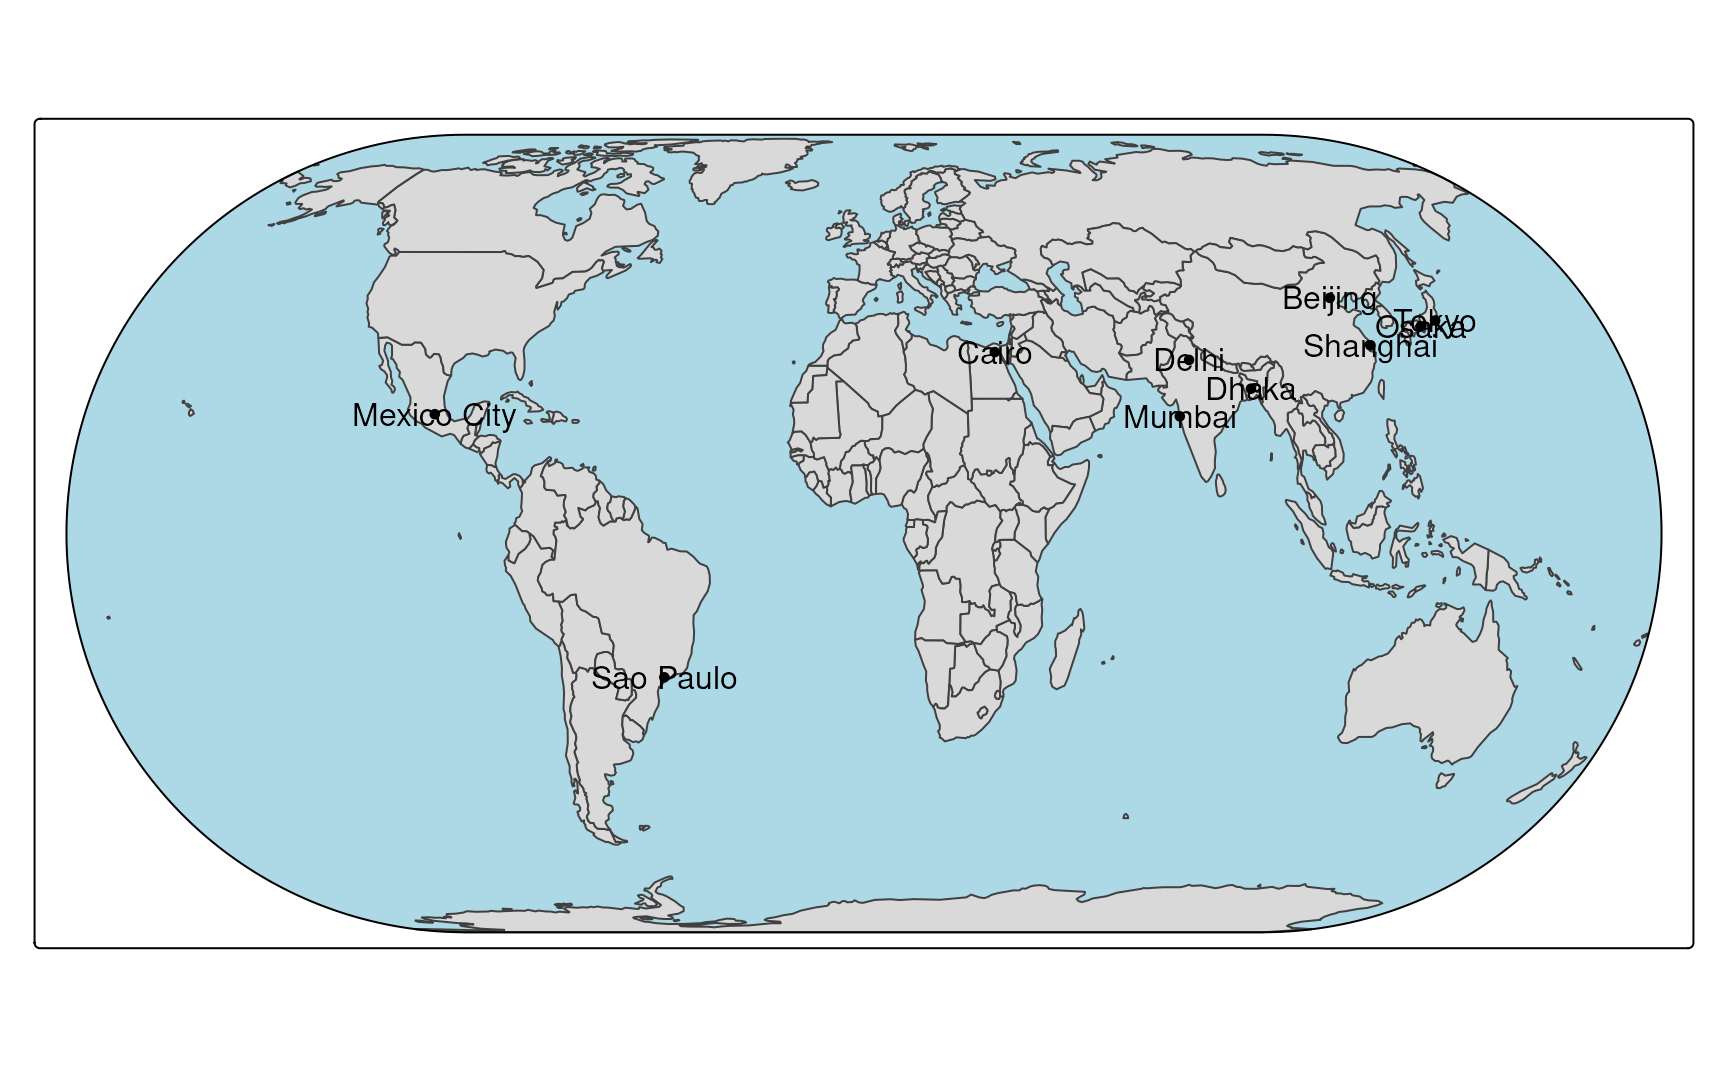
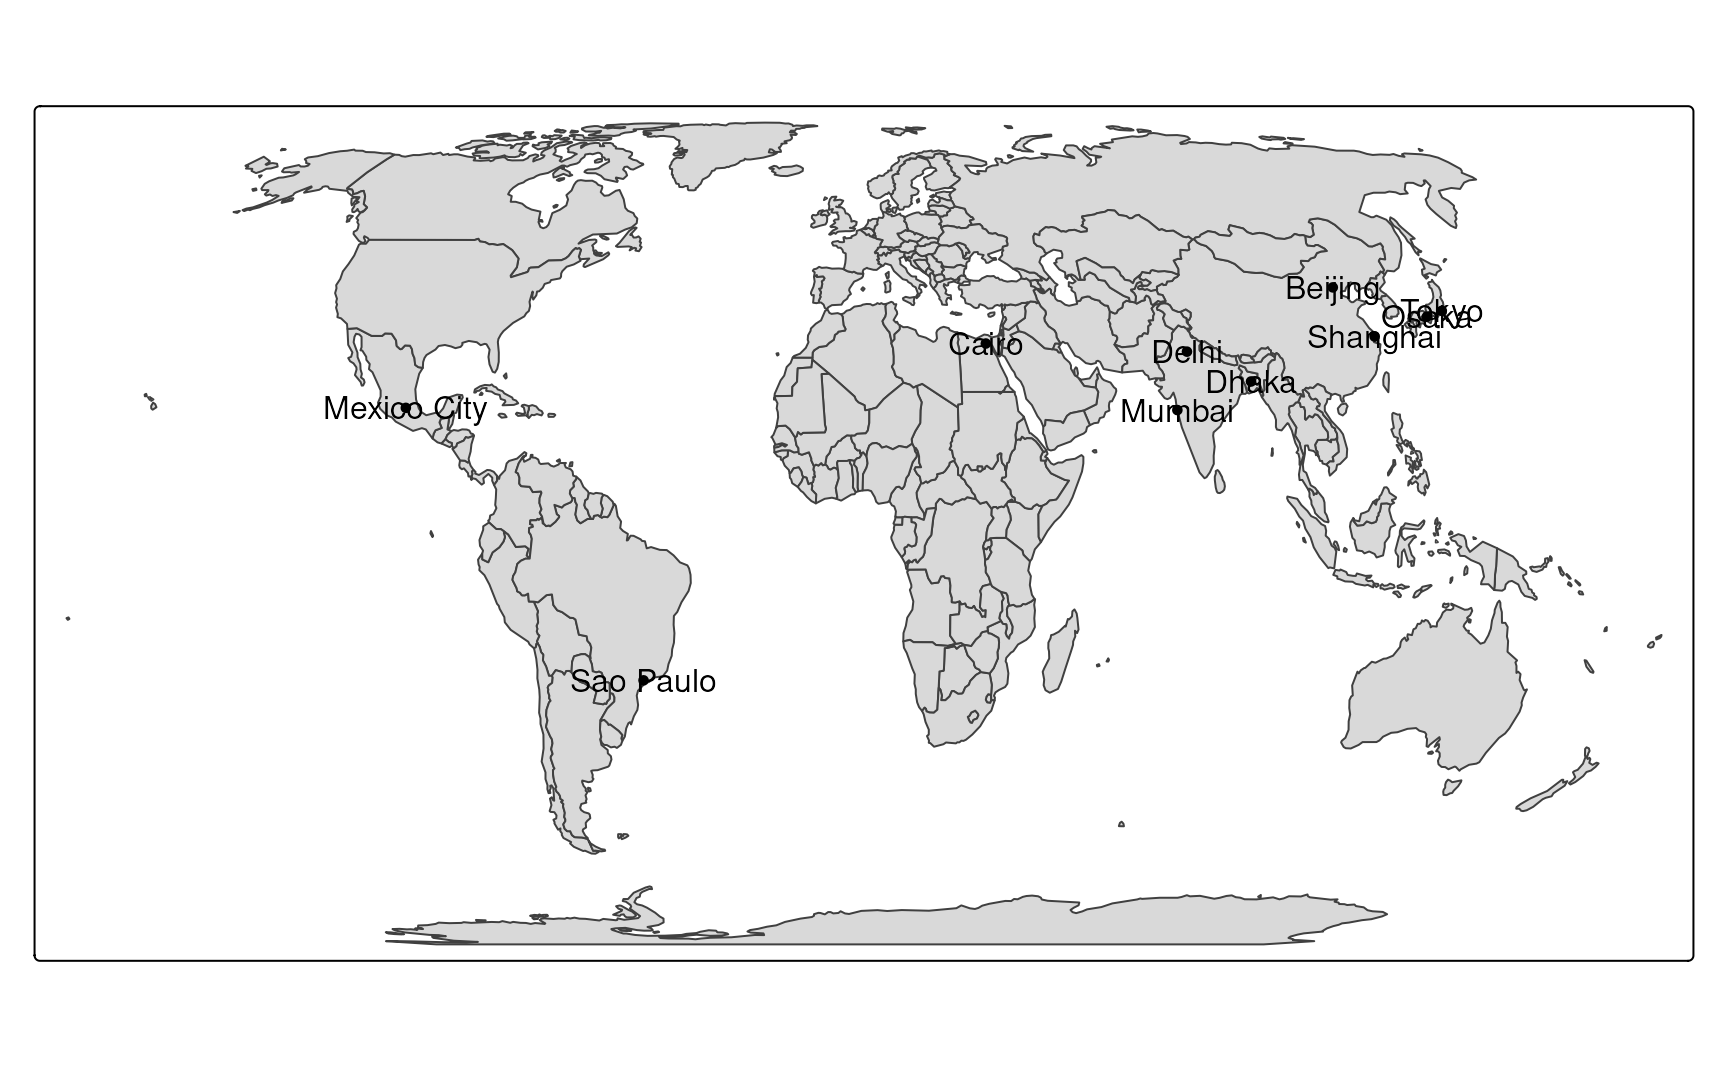
Deploy commit: improves proj section 52e13b56a039f3d058ed9c3b29fb51e4ba3cf801

diff --git a/map-projections.html b/map-projections.html
@@ -364,8 +364,20 @@ gtag('config', 'G-ER2GMPEJNF', { 'anonymize_ip': true});
 </div>
 </nav><div id="quarto-sidebar-glass" class="quarto-sidebar-collapse-item" data-bs-toggle="collapse" data-bs-target=".quarto-sidebar-collapse-item"></div>
 <!-- margin-sidebar -->
-    <div id="quarto-margin-sidebar" class="sidebar margin-sidebar zindex-bottom">
-        
+    <div id="quarto-margin-sidebar" class="sidebar margin-sidebar">
+        <nav id="TOC" role="doc-toc" class="toc-active"><h2 class="anchored">First Edition</h2>
+  <ul>
+<li><a href="https://geocompx.org/" class="nav-link active" data-scroll-target="https\://geocompx.org/">Visit the geocompx website 🌐</a></li>
+    <li><a href="https://github.com/geocompx/tmap/issues" class="nav-link" data-scroll-target="https\://github.com/geocompx/tmap/issues">Open an issue ❔</a></li>
+    <li><a href="https://discord.gg/PMztXYgNxp" class="nav-link" data-scroll-target="https\://discord.gg/PMztXYgNxp">Chat on Discord 📣</a></li>
+  </ul>
+<hr>
+<h2 id="toc-title">On this page</h2>
+   
+  <ul>
+<li><a href="#specifying-map-projections" id="toc-specifying-map-projections" class="nav-link" data-scroll-target="#specifying-map-projections"><span class="header-section-number">13.1</span> Specifying map projections</a></li>
+  <li><a href="#global-map-projections" id="toc-global-map-projections" class="nav-link" data-scroll-target="#global-map-projections"><span class="header-section-number">13.2</span> Global map projections</a></li>
+  </ul><div class="toc-actions"><ul><li><a href="https://github.com/geocompx/tmap/edit/main/map-projections.qmd" class="toc-action"><i class="bi bi-github"></i>Edit this page</a></li></ul></div></nav>
     </div>
 <!-- main -->
 <main class="content" id="quarto-document-content"><header id="title-block-header" class="quarto-title-block default"><nav class="quarto-page-breadcrumbs quarto-title-breadcrumbs d-none d-lg-block" aria-label="breadcrumb"><ol class="breadcrumb"><li class="breadcrumb-item"><a href="./map-projections.html">Expanding the toolbox</a></li><li class="breadcrumb-item"><a href="./map-projections.html"><span class="chapter-number">13</span>&nbsp; <span class="chapter-title">Map projections</span></a></li></ol></nav><div class="quarto-title">
@@ -393,6 +405,8 @@ gtag('config', 'G-ER2GMPEJNF', { 'anonymize_ip': true});
 <span><span class="va">worldvector</span> <span class="op">=</span> <span class="fu"><a href="https://r-spatial.github.io/sf/reference/st_read.html">read_sf</a></span><span class="op">(</span><span class="st">"data/worldvector.gpkg"</span><span class="op">)</span></span>
 <span><span class="va">worldcities</span> <span class="op">=</span> <span class="fu"><a href="https://r-spatial.github.io/sf/reference/st_read.html">read_sf</a></span><span class="op">(</span><span class="st">"data/worldcities.gpkg"</span><span class="op">)</span></span></code><button title="Copy to Clipboard" class="code-copy-button"><i class="bi"></i></button></pre></div>
 </div>
+<section id="specifying-map-projections" class="level2" data-number="13.1"><h2 data-number="13.1" class="anchored" data-anchor-id="specifying-map-projections">
+<span class="header-section-number">13.1</span> Specifying map projections</h2>
 <div class="cell" data-layout-align="center">
 <div class="sourceCode" id="cb2"><pre class="downlit sourceCode r code-with-copy"><code class="sourceCode R"><span><span class="va">tm</span> <span class="op">=</span> <span class="fu"><a href="https://r-tmap.github.io/tmap/reference/tm_shape.html">tm_shape</a></span><span class="op">(</span><span class="va">worldvector</span><span class="op">)</span> <span class="op">+</span></span>
 <span>  <span class="fu"><a href="https://r-tmap.github.io/tmap/reference/tm_polygons.html">tm_polygons</a></span><span class="op">(</span><span class="op">)</span> <span class="op">+</span></span>
@@ -404,48 +418,60 @@ gtag('config', 'G-ER2GMPEJNF', { 'anonymize_ip': true});
 </div>
 <div class="cell" data-layout-align="center">
 <div class="sourceCode" id="cb3"><pre class="downlit sourceCode r code-with-copy"><code class="sourceCode R"><span><span class="va">tm</span> <span class="op">+</span></span>
-<span>  <span class="fu"><a href="https://r-tmap.github.io/tmap/reference/tm_crs.html">tm_crs</a></span><span class="op">(</span><span class="st">"+proj=eck4"</span><span class="op">)</span> <span class="op">+</span></span>
-<span>  <span class="fu"><a href="https://r-tmap.github.io/tmap/reference/tm_layout.html">tm_layout</a></span><span class="op">(</span>bg.color <span class="op">=</span> <span class="st">"lightblue"</span>,</span>
-<span>            earth_boundary <span class="op">=</span> <span class="cn">TRUE</span><span class="op">)</span></span></code><button title="Copy to Clipboard" class="code-copy-button"><i class="bi"></i></button></pre></div>
+<span>  <span class="fu"><a href="https://r-tmap.github.io/tmap/reference/tm_crs.html">tm_crs</a></span><span class="op">(</span><span class="st">"+proj=eck4"</span><span class="op">)</span></span></code><button title="Copy to Clipboard" class="code-copy-button"><i class="bi"></i></button></pre></div>
 </div>
-<div class="sourceCode" id="cb4"><pre class="downlit sourceCode r code-with-copy"><code class="sourceCode R"><span><span class="va">tm</span> <span class="op">=</span> <span class="fu"><a href="https://r-tmap.github.io/tmap/reference/tm_shape.html">tm_shape</a></span><span class="op">(</span><span class="va">worldvector</span><span class="op">)</span> <span class="op">+</span></span>
-<span>  <span class="fu"><a href="https://r-tmap.github.io/tmap/reference/tm_polygons.html">tm_polygons</a></span><span class="op">(</span><span class="op">)</span> <span class="op">+</span></span>
-<span>  <span class="fu"><a href="https://r-tmap.github.io/tmap/reference/tm_shape.html">tm_shape</a></span><span class="op">(</span><span class="va">worldcities</span><span class="op">)</span> <span class="op">+</span></span>
-<span>  <span class="fu"><a href="https://r-tmap.github.io/tmap/reference/tm_symbols.html">tm_dots</a></span><span class="op">(</span><span class="op">)</span> <span class="op">+</span></span>
-<span>  <span class="fu"><a href="https://r-tmap.github.io/tmap/reference/tm_text.html">tm_text</a></span><span class="op">(</span><span class="st">"name"</span><span class="op">)</span> <span class="op">+</span></span>
-<span>  <span class="fu"><a href="https://r-tmap.github.io/tmap/reference/tm_crs.html">tm_crs</a></span><span class="op">(</span><span class="st">"EPSG:4326"</span><span class="op">)</span></span>
-<span><span class="va">tm</span></span>
-<span><span class="va">tm</span> <span class="op">+</span></span>
-<span>  <span class="fu"><a href="https://r-tmap.github.io/tmap/reference/tm_crs.html">tm_crs</a></span><span class="op">(</span><span class="st">"+proj=eck4"</span><span class="op">)</span> <span class="op">+</span></span>
-<span>  <span class="fu"><a href="https://r-tmap.github.io/tmap/reference/tm_layout.html">tm_layout</a></span><span class="op">(</span>bg.color <span class="op">=</span> <span class="st">"lightblue"</span>,</span>
-<span>            earth_boundary <span class="op">=</span> <span class="cn">TRUE</span><span class="op">)</span></span></code><button title="Copy to Clipboard" class="code-copy-button"><i class="bi"></i></button></pre></div>
-<div class="cell quarto-layout-panel" data-ecbo="false" data-layout-align="center" data-layout-nrow="2">
+<div class="cell" data-layout-nrow="2" data-layout-align="center">
+<div id="fig-mproj12" class="quarto-layout-panel">
+<figure class="quarto-float quarto-float-fig figure"><div aria-describedby="fig-mproj12-caption-0ceaefa1-69ba-4598-a22c-09a6ac19f8ca">
 <div class="quarto-layout-row">
-<div class="cell-output-display quarto-layout-cell" style="flex-basis: 100.0%;justify-content: center;">
-<div id="fig-mproj12-1" class="quarto-float quarto-figure quarto-figure-center anchored" data-fig-align="center" width="100%">
-<figure class="quarto-float quarto-float-fig figure"><div aria-describedby="fig-mproj12-1-caption-0ceaefa1-69ba-4598-a22c-09a6ac19f8ca">
-<img src="figures/fig-mproj12-1.png" id="fig-mproj12-1" class="img-fluid quarto-figure quarto-figure-center anchored figure-img" style="width:100.0%">
+<div class="cell-output-display quarto-layout-cell-subref quarto-layout-cell" data-ref-parent="fig-mproj12" style="flex-basis: 100.0%;justify-content: center;">
+<div id="fig-mproj12-1" class="quarto-float quarto-figure quarto-figure-center anchored" data-fig-align="center">
+<figure class="quarto-float quarto-subfloat-fig figure"><div aria-describedby="fig-mproj12-1-caption-0ceaefa1-69ba-4598-a22c-09a6ac19f8ca">
+<img src="figures/fig-mproj12-1.png" class="img-fluid quarto-figure quarto-figure-center figure-img" style="width:100.0%" data-ref-parent="fig-mproj12">
 </div>
-<figcaption class="quarto-float-caption-bottom quarto-float-caption quarto-float-fig quarto-uncaptioned" id="fig-mproj12-1-caption-0ceaefa1-69ba-4598-a22c-09a6ac19f8ca">
-Figure&nbsp;13.1
+<figcaption class="quarto-float-caption-bottom quarto-subfloat-caption quarto-subfloat-fig" id="fig-mproj12-1-caption-0ceaefa1-69ba-4598-a22c-09a6ac19f8ca">
+(a) EPSG:4326 (WGS 84)
 </figcaption></figure>
 </div>
 </div>
 </div>
 <div class="quarto-layout-row">
-<div class="cell-output-display quarto-layout-cell" style="flex-basis: 100.0%;justify-content: center;">
-<div id="fig-mproj12-2" class="quarto-float quarto-figure quarto-figure-center anchored" data-fig-align="center" width="100%">
-<figure class="quarto-float quarto-float-fig figure"><div aria-describedby="fig-mproj12-2-caption-0ceaefa1-69ba-4598-a22c-09a6ac19f8ca">
-<img src="figures/fig-mproj12-2.png" id="fig-mproj12-2" class="img-fluid quarto-figure quarto-figure-center anchored figure-img" style="width:100.0%">
+<div class="cell-output-display quarto-layout-cell-subref quarto-layout-cell" data-ref-parent="fig-mproj12" style="flex-basis: 100.0%;justify-content: center;">
+<div id="fig-mproj12-2" class="quarto-float quarto-figure quarto-figure-center anchored" data-fig-align="center">
+<figure class="quarto-float quarto-subfloat-fig figure"><div aria-describedby="fig-mproj12-2-caption-0ceaefa1-69ba-4598-a22c-09a6ac19f8ca">
+<img src="figures/fig-mproj12-2.png" class="img-fluid quarto-figure quarto-figure-center figure-img" style="width:100.0%" data-ref-parent="fig-mproj12">
 </div>
-<figcaption class="quarto-float-caption-bottom quarto-float-caption quarto-float-fig quarto-uncaptioned" id="fig-mproj12-2-caption-0ceaefa1-69ba-4598-a22c-09a6ac19f8ca">
-Figure&nbsp;13.2
+<figcaption class="quarto-float-caption-bottom quarto-subfloat-caption quarto-subfloat-fig" id="fig-mproj12-2-caption-0ceaefa1-69ba-4598-a22c-09a6ac19f8ca">
+(b) Eckert IV
 </figcaption></figure>
 </div>
 </div>
 </div>
 </div>
+<figcaption class="quarto-float-caption-bottom quarto-float-caption quarto-float-fig" id="fig-mproj12-caption-0ceaefa1-69ba-4598-a22c-09a6ac19f8ca">
+Figure&nbsp;13.1: Map projections examples.
+</figcaption></figure>
+</div>
+</div>
+</section><section id="global-map-projections" class="level2" data-number="13.2"><h2 data-number="13.2" class="anchored" data-anchor-id="global-map-projections">
+<span class="header-section-number">13.2</span> Global map projections</h2>
 <!-- tm + tm_style("natural") -->
+<div class="cell" data-layout-align="center">
+<div class="sourceCode" id="cb4"><pre class="downlit sourceCode r code-with-copy"><code class="sourceCode R"><span><span class="va">tm</span> <span class="op">+</span></span>
+<span>  <span class="fu"><a href="https://r-tmap.github.io/tmap/reference/tm_crs.html">tm_crs</a></span><span class="op">(</span><span class="st">"+proj=eck4"</span><span class="op">)</span> <span class="op">+</span></span>
+<span>  <span class="fu"><a href="https://r-tmap.github.io/tmap/reference/tm_layout.html">tm_layout</a></span><span class="op">(</span>bg.color <span class="op">=</span> <span class="st">"lightblue"</span>,</span>
+<span>            earth_boundary <span class="op">=</span> <span class="cn">TRUE</span><span class="op">)</span></span></code><button title="Copy to Clipboard" class="code-copy-button"><i class="bi"></i></button></pre></div>
+<div class="cell-output-display">
+<div id="fig-mproj3" class="quarto-float quarto-figure quarto-figure-center anchored" data-fig-align="center">
+<figure class="quarto-float quarto-float-fig figure"><div aria-describedby="fig-mproj3-caption-0ceaefa1-69ba-4598-a22c-09a6ac19f8ca">
+<img src="figures/fig-mproj3-1.png" class="img-fluid quarto-figure quarto-figure-center figure-img" style="width:100.0%">
+</div>
+<figcaption class="quarto-float-caption-bottom quarto-float-caption quarto-float-fig" id="fig-mproj3-caption-0ceaefa1-69ba-4598-a22c-09a6ac19f8ca">
+Figure&nbsp;13.2: Map with data projected into Eckert IV and with a customized style.
+</figcaption></figure>
+</div>
+</div>
+</div>
 <div class="cell" data-layout-align="center">
 <div class="cell-output-display">
 <div id="fig-exprojs" class="quarto-float quarto-figure quarto-figure-center anchored" data-fig-align="center">
@@ -453,7 +479,7 @@ Figure&nbsp;13.2
 <img src="figures/fig-exprojs-1.png" class="img-fluid quarto-figure quarto-figure-center figure-img" style="width:100.0%">
 </div>
 <figcaption class="quarto-float-caption-bottom quarto-float-caption quarto-float-fig" id="fig-exprojs-caption-0ceaefa1-69ba-4598-a22c-09a6ac19f8ca">
-Figure&nbsp;13.3: Examples of map projections
+Figure&nbsp;13.3: Examples of map projections for the whole world.
 </figcaption></figure>
 </div>
 </div>
@@ -510,8 +536,7 @@ Figure&nbsp;13.3: Examples of map projections
 <!-- specific: south pole? -->
 
 
-
-</main><!-- /main --><script id="quarto-html-after-body" type="application/javascript">
+</section></main><!-- /main --><script id="quarto-html-after-body" type="application/javascript">
   window.document.addEventListener("DOMContentLoaded", function (event) {
     const icon = "";
     const anchorJS = new window.AnchorJS();
@@ -927,7 +952,7 @@ Figure&nbsp;13.3: Examples of map projections
     </div>   
     <div class="nav-footer-center">
 <p>Elegant and informative maps with <strong>tmap</strong> by Martijn Tennekes and Jakub Nowosad.</p>
-<div class="toc-actions"><ul><li><a href="https://github.com/geocompx/tmap/edit/main/map-projections.qmd" class="toc-action"><i class="bi bi-github"></i>Edit this page</a></li></ul></div></div>
+<div class="toc-actions d-sm-block d-md-none"><ul><li><a href="https://github.com/geocompx/tmap/edit/main/map-projections.qmd" class="toc-action"><i class="bi bi-github"></i>Edit this page</a></li></ul></div></div>
     <div class="nav-footer-right">
       &nbsp;
     </div>

diff --git a/charts.html b/charts.html
@@ -560,7 +560,7 @@ Figure&nbsp;14.1: Histogram added to a map to represent the distribution of a va
 <span><span class="fu"><a href="https://r-tmap.github.io/tmap/reference/tm_shape.html">tm_shape</a></span><span class="op">(</span><span class="va">slo_regions</span><span class="op">)</span> <span class="op">+</span></span>
 <span>  <span class="fu"><a href="https://r-tmap.github.io/tmap/reference/tm_polygons.html">tm_polygons</a></span><span class="op">(</span>fill <span class="op">=</span> <span class="st">"pop_dens"</span>,</span>
 <span>              fill.chart <span class="op">=</span> <span class="fu"><a href="https://r-tmap.github.io/tmap/reference/tm_chart.html">tm_chart_donut</a></span><span class="op">(</span><span class="op">)</span><span class="op">)</span></span></code><button title="Copy to Clipboard" class="code-copy-button"><i class="bi"></i></button></pre></div>
-<div class="cell quarto-layout-panel" data-layout-ncol="3" data-layout-align="center">
+<div class="cell quarto-layout-panel" data-layout-align="center" data-layout-ncol="3">
 <div class="quarto-layout-row">
 <div class="cell-output-display quarto-layout-cell" style="flex-basis: 33.3%;justify-content: center;">
 <div id="fig-chart-num-1" class="quarto-float quarto-figure quarto-figure-center anchored" data-fig-align="center">
@@ -602,7 +602,7 @@ Figure&nbsp;14.4: Charts for numerical data.
 <span><span class="fu"><a href="https://r-tmap.github.io/tmap/reference/tm_shape.html">tm_shape</a></span><span class="op">(</span><span class="va">slo_regions</span><span class="op">)</span> <span class="op">+</span></span>
 <span>  <span class="fu"><a href="https://r-tmap.github.io/tmap/reference/tm_polygons.html">tm_polygons</a></span><span class="op">(</span>fill <span class="op">=</span> <span class="st">"region_group"</span>,</span>
 <span>              fill.chart <span class="op">=</span> <span class="fu"><a href="https://r-tmap.github.io/tmap/reference/tm_chart.html">tm_chart_donut</a></span><span class="op">(</span><span class="op">)</span><span class="op">)</span></span></code><button title="Copy to Clipboard" class="code-copy-button"><i class="bi"></i></button></pre></div>
-<div class="cell quarto-layout-panel" data-layout-ncol="2" data-layout-align="center">
+<div class="cell quarto-layout-panel" data-layout-align="center" data-layout-ncol="2">
 <div class="quarto-layout-row">
 <div class="cell-output-display quarto-layout-cell" style="flex-basis: 50.0%;justify-content: center;">
 <div id="fig-chart-cat-1" class="quarto-float quarto-figure quarto-figure-center anchored" data-fig-align="center">
